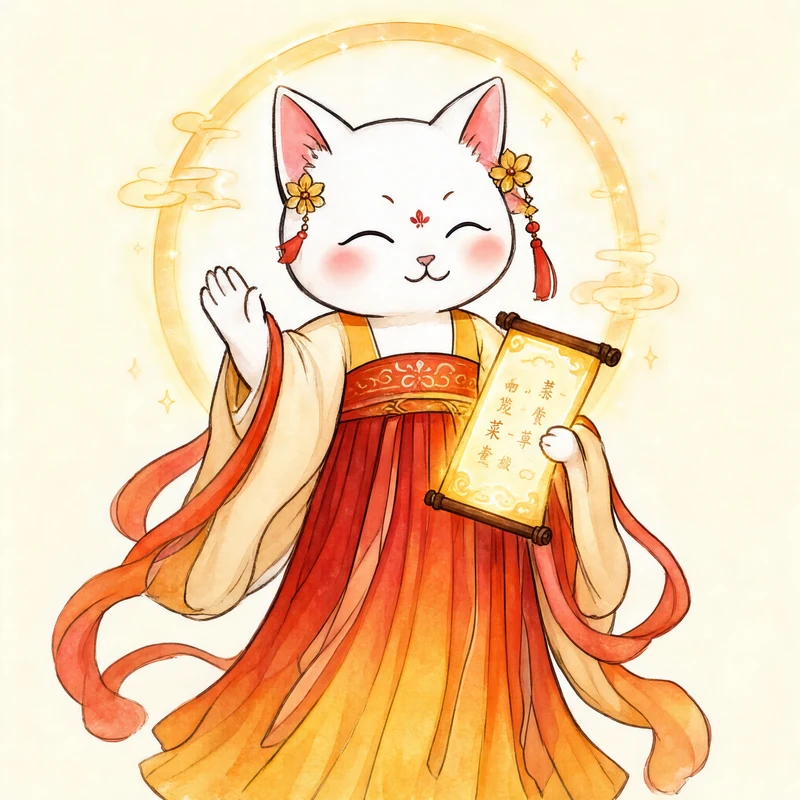
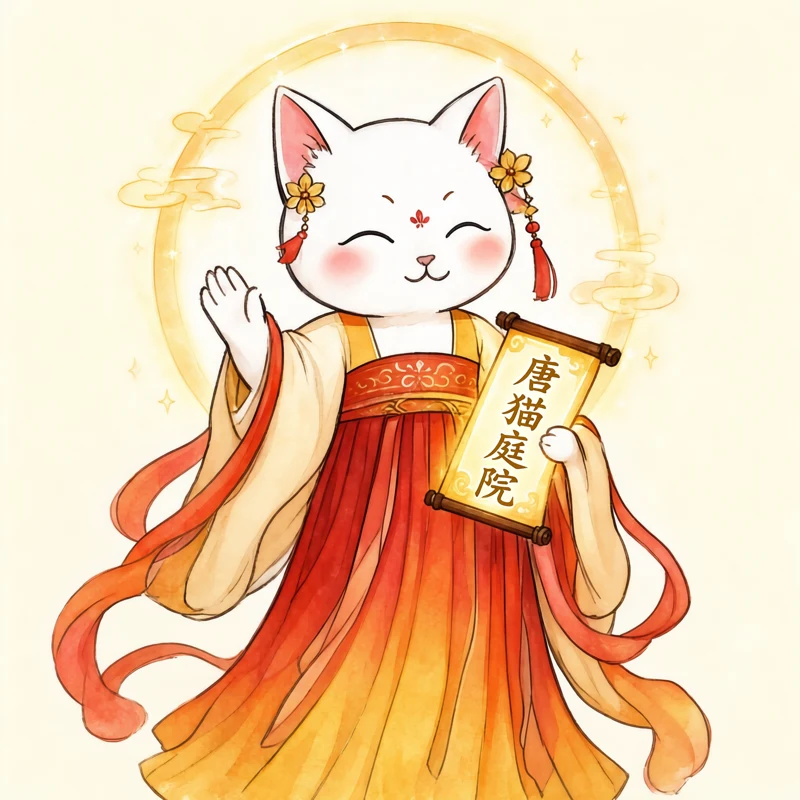
品牌: 迎宾猫卷轴AI伪汉字修正——卷面重绘为竖排「唐猫庭院」金色书法(编辑模式保留原画其余部分),四处引用加v=20261015缓存击穿;png母版与webp同步更新

diff --git a/index.html b/index.html
@@ -170,7 +170,7 @@
                                 <h2 class="mb-0">登录</h2>
                             </div>
                             <div class="card-body p-5">
-                                <img src="assets/illustrations/cat-butler-ai.webp" alt="唐猫庭院迎宾猫" style="width:100%;border-radius:12px;margin-bottom:18px;display:block;">
+                                <img src="assets/illustrations/cat-butler-ai.webp?v=20261015" alt="唐猫庭院迎宾猫" style="width:100%;border-radius:12px;margin-bottom:18px;display:block;">
                                 <form id="login-form" novalidate>
                                     <div class="mb-3">
                                         <label for="login-username" class="form-label">用户名</label>
@@ -203,7 +203,7 @@
                                 <h2 class="mb-0">注册</h2>
                             </div>
                             <div class="card-body p-5">
-                                <img src="assets/illustrations/cat-butler-ai.webp" alt="唐猫庭院迎宾猫" style="width:100%;border-radius:12px;margin-bottom:18px;display:block;">
+                                <img src="assets/illustrations/cat-butler-ai.webp?v=20261015" alt="唐猫庭院迎宾猫" style="width:100%;border-radius:12px;margin-bottom:18px;display:block;">
                                 <form id="register-form" novalidate>
                                     <div class="mb-3">
                                         <label for="register-username" class="form-label">用户名 <span style="color:var(--text-light);font-size:0.75rem;">（2-20字符）</span></label>
@@ -401,7 +401,7 @@
             <section id="table-builder-section" class="section">
                 <div class="card shadow-lg rounded-4 border-0" style="border:1px solid rgba(201,169,110,0.3)!important;">
                     <div class="card-header text-center text-white" style="background:linear-gradient(135deg,var(--primary-dark),var(--primary))!important;border:none;position:relative;">
-                        <img src="/assets/illustrations/cat-butler-ai.webp" alt="猫掌柜" style="position:absolute;right:12px;top:8px;height:72px;width:auto;border-radius:50%;border:2px solid rgba(255,255,255,0.55);box-shadow:0 2px 8px rgba(0,0,0,0.25);">
+                        <img src="/assets/illustrations/cat-butler-ai.webp?v=20261015" alt="猫掌柜" style="position:absolute;right:12px;top:8px;height:72px;width:auto;border-radius:50%;border:2px solid rgba(255,255,255,0.55);box-shadow:0 2px 8px rgba(0,0,0,0.25);">
                         <div style="font-size:0.66rem;letter-spacing:7px;color:var(--gold-light);opacity:0.9;margin-bottom:5px;">◇ 猫 掌 柜 AI ◇</div>
                         <h2 class="mb-0" style="font-family:'Noto Serif SC',serif;font-weight:700;letter-spacing:8px;text-indent:8px;">猫掌柜 · 一席成宴</h2>
                         <div style="font-size:0.76rem;color:rgba(240,213,176,0.85);margin-top:5px;letter-spacing:3px;">掌柜懂菜，更懂你 · 报上人数即成宴</div>
@@ -636,7 +636,7 @@
                     <div class="card-header text-white d-flex justify-content-between align-items-center" style="background-color:var(--primary-accent);">
                         <h2 class="mb-0" data-i18n="rec_title">推荐菜品</h2>
                         <div class="d-flex align-items-center">
-                            <img src="/assets/illustrations/cat-butler-ai.webp" alt="猫掌柜" style="height:64px;width:64px;border-radius:50%;border:2px solid rgba(255,255,255,0.55);box-shadow:0 2px 8px rgba(0,0,0,0.25);margin-right:14px;">
+                            <img src="/assets/illustrations/cat-butler-ai.webp?v=20261015" alt="猫掌柜" style="height:64px;width:64px;border-radius:50%;border:2px solid rgba(255,255,255,0.55);box-shadow:0 2px 8px rgba(0,0,0,0.25);margin-right:14px;">
                             <button class="btn btn-light btn-sm" id="back-to-preference">
                                 <i class="bi bi-arrow-left me-2"></i>换口味
                             </button>
